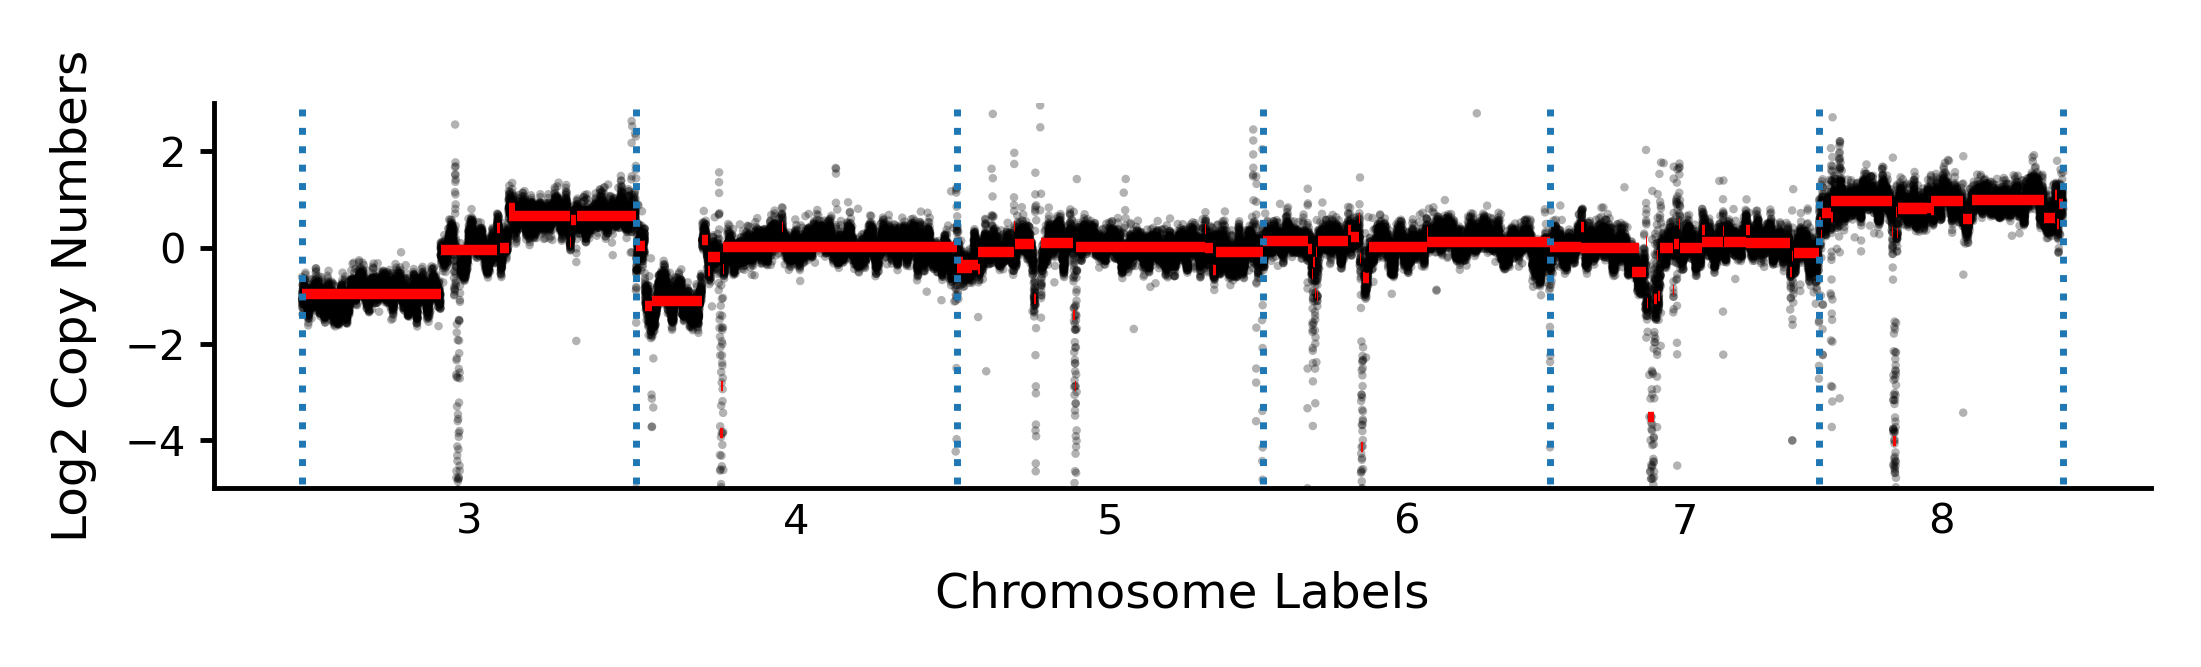
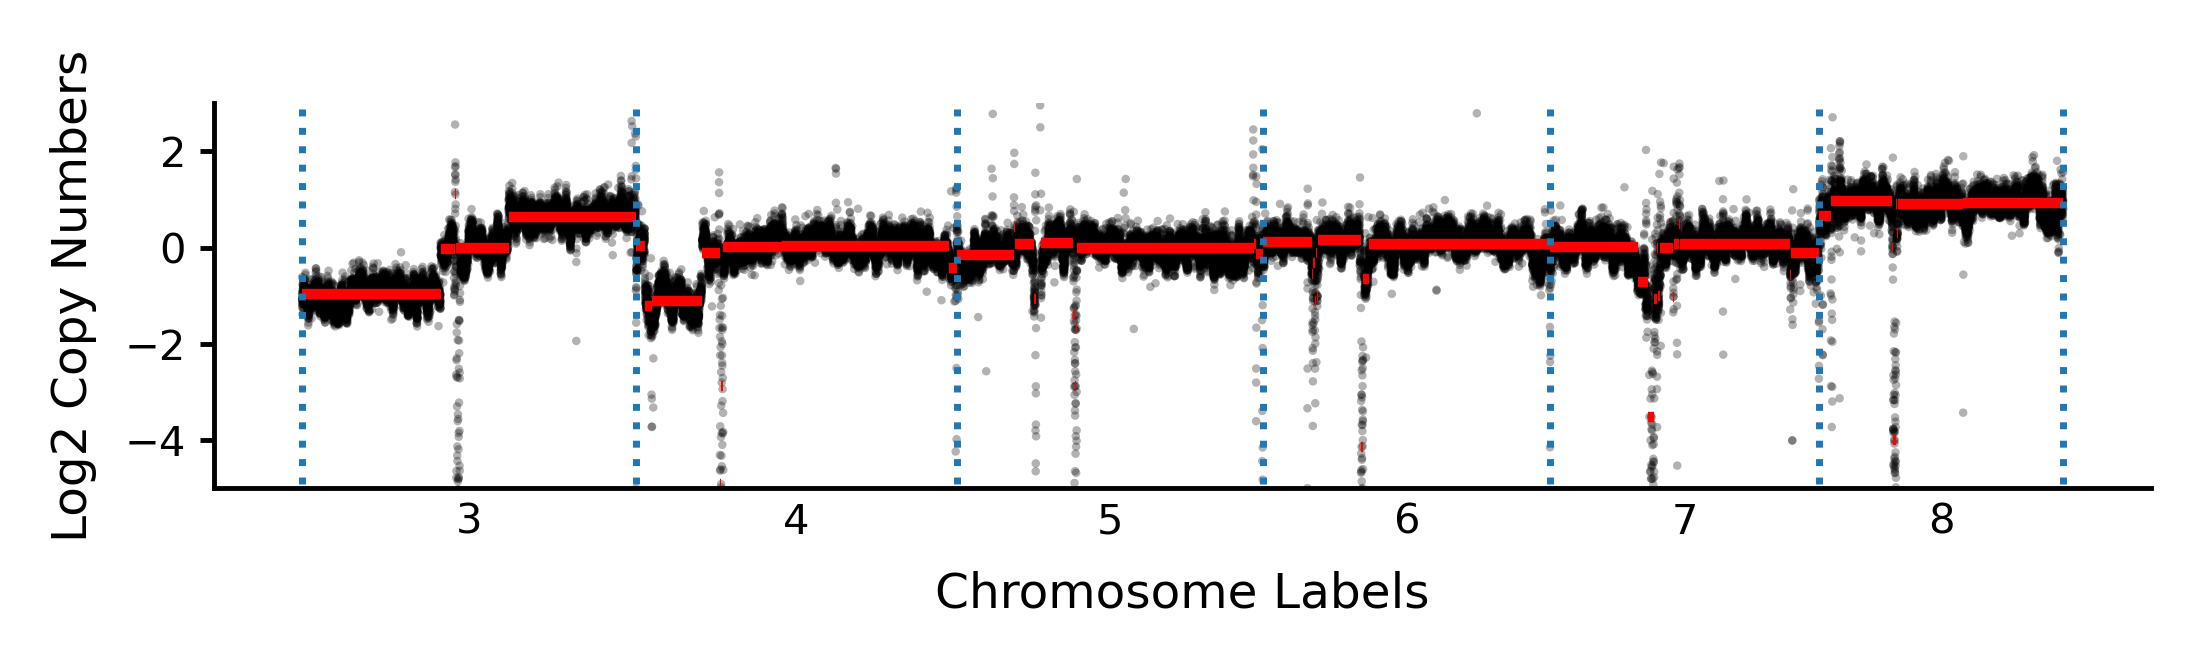
v0.4.1

diff --git a/neoloop/cnv/segcnv.py b/neoloop/cnv/segcnv.py
@@ -55,7 +55,8 @@ def cbs(x, shuffles=1000, p=.05):
 
 def rsegment(x, start, end, L=[], shuffles=1000, p=.05):
     '''
-    Recursively segment the interval x[start:end] returning a list L of pairs (i,j) where each (i,j) is a significant segment.
+    Recursively segment the interval x[start:end] returning a list
+    L of pairs (i,j) where each (i,j) is a significant segment.
     '''
     threshold, t, s, e = cbs(x[start:end], shuffles=shuffles, p=p)
     if (not threshold) | (e-s < 5) | (e-s == end-start):
@@ -81,7 +82,7 @@ def segment(x, shuffles=1000, p=1e-5):
 
     return L
 
-def combine_segment(sig, cbs_seg, hmm_seg, bufsize=4):
+def combine_segment(sig, cbs_seg, hmm_seg, min_seg, min_diff, bufsize=4):
 
     start = cbs_seg[0][0]
     pool1 = set()
@@ -104,51 +105,68 @@ def combine_segment(sig, cbs_seg, hmm_seg, bufsize=4):
             arr2 = sig[end:ext]
             mask2 = arr2 == 0
             zero_ratio2 = mask2.sum() / mask2.size
-            if (mask1.size < 3) or (mask2.size < 3):
-                seg.append([start, ext])
+            if (mask1.size < min_seg) or (mask2.size < min_seg):
+                _add_seg(seg, [start, ext])
                 start, end = start, ext
             else:
                 if (zero_ratio1 > 0.8) or (zero_ratio2 > 0.8):
-                    seg.append([start, end])
+                    _add_seg(seg, [start, end])
                     start, end = end, ext
                 else:
                     v1 = np.log2(np.median(arr1[arr1!=0]))
                     v2 = np.log2(np.median(arr2[arr2!=0]))
-                    if abs(v1 - v2) < 0.4:
-                        seg.append([start, ext])
+                    if abs(v1 - v2) < min_diff:
+                        _add_seg(seg, [start, ext])
                         start, end = start, ext
                     else:
-                        seg.append([start, end])
+                        _add_seg(seg, [start, end])
                         start, end = end, ext
                         
         if end > seg[-1][1]:
-            seg.append([start, end])
+            _add_seg(seg, [start, end])
     else:
-        seg.append([start, end])
+        _add_seg(seg, [start, end])
 
     return seg
 
+def _add_seg(seg, r):
+
+    if not len(seg):
+        seg.append(r)
+    else:
+        if r[0]==seg[-1][0]:
+            seg[-1] = r
+        else:
+            seg.append(r)
+
 class HMMsegment(binCNV):
 
-    def __init__(self, bedgraph, res, nproc=1, ploidy=2):
+    def __init__(self, bedgraph, res, nproc=1, ploidy=2, n_states=None):
 
         binCNV.__init__(self, bedgraph, res)
         self.n_jobs = nproc
         self.ploidy = ploidy
+        self.n_states = n_states
 
-    def segment(self, min_seg=5):
+    def segment(self, min_seg=5, min_diff=0.4, p=1e-5, max_dist=4):
 
         outlines = []
         counts = defaultdict(int)
         vMap = {}
-        training_seqs, gmm = self.get_states(maxdist=15)
-        if len(gmm.means_.ravel()) > 1:
-            logger.info('Estimated HMM state number: {0}'.format(len(gmm.means_.ravel())))
-            #logger.info('Means of the hidden distributions: {0}'.format(sorted(gmm.means_.ravel())))
-            logger.info('Training HMM ...')
+        training_seqs, gmm = self.get_states(maxdist=10)
+        if self.n_states is None:
+            n_states = len(gmm.means_.ravel())
+            #logger.info('Estimated HMM state number: {0}'.format(n_states))
+            #logger.info('Means of the hidden distributions: {0}'.format(gmm.means_.ravel()))
+            #logger.info('Covariances of the hidden distributions: {0}'.format(gmm.covariances_.ravel()))
+        else:
+            n_states = self.n_states
+
+        if n_states > 1:
+            logger.info('Training HMM with {0} states...'.format(n_states))
             model = HiddenMarkovModel.from_samples(
                 NormalDistribution,
-                n_components=len(gmm.means_.ravel()),
+                n_components=n_states,
                 init='kmeans++',
                 n_init=10,
                 X=training_seqs,
@@ -177,8 +195,9 @@ class HMMsegment(binCNV):
             #logger.info('Combine results from the CBS algorithm ...')
             logsig = np.zeros_like(sig)
             logsig[sig>0] = np.log2(sig[sig>0])
-            cbs_seg = segment(logsig)
-            seg = combine_segment(sig, cbs_seg, hmm_seg) # combine results from cbs and hmm
+            cbs_seg = segment(logsig, p=p)
+            seg = combine_segment(sig, cbs_seg, hmm_seg, min_seg,
+                                  min_diff, bufsize=max_dist) # combine results from cbs and hmm
             
             for s, e in seg:
                 tmp = sig[s:e]
@@ -194,7 +213,7 @@ class HMMsegment(binCNV):
                 counts[cn] += (cur[2]-cur[1])
         
         cn_min_count = min(counts.values())
-        while cn_min_count < min_seg:
+        while cn_min_count < 5: # total number of bins with the a specific copy number must greater than this value
             for i in counts:
                 if counts[i]==cn_min_count:
                     cn = i
@@ -308,17 +327,19 @@ class HMMsegment(binCNV):
         X = whole_genome[:, np.newaxis]
         n_components_range = range(1, maxdist+1)
         _trace_gmm = {}
-        bic_arr = []
+        aic_arr = []
         for n_components in n_components_range:
             gmm = GaussianMixture(n_components=n_components,
-                                covariance_type='diag')
+                                  covariance_type='diag',
+                                  init_params='k-means++',
+                                  n_init=10)
             gmm.fit(X)
-            bic = gmm.bic(X)
-            bic_arr.append(bic)
+            aic = gmm.aic(X)
+            aic_arr.append(aic)
             _trace_gmm[n_components] = gmm
         
-        bic_arr = np.r_[bic_arr]
-        best_idx = bic_arr.argmin()
+        aic_arr = np.r_[aic_arr]
+        best_idx = aic_arr.argmin()
         gmm = _trace_gmm[best_idx+1]
 
         return training_seqs, gmm
